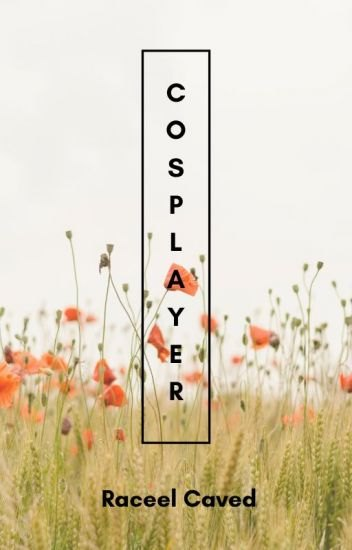
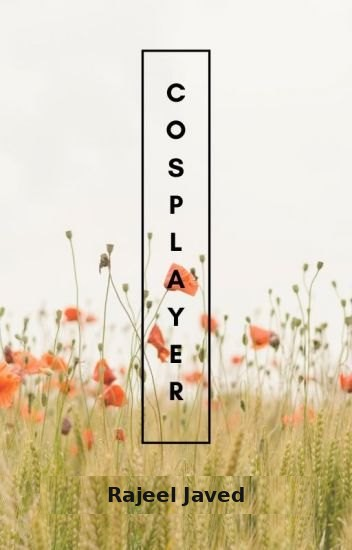
Covers for every piece, Rajeel Javed as the writer, pinned first, showcase at the end, equal overview boxes, new drafts passphrase, Grouvee and Goodreads links, series of books, character search that can't hang
Claude-Session: https://claude.ai/code/session_01ALpQZF3nfd9Yxu7S4bNpjv

Changed region(s): [[0.0938, 0.8655, 0.9062, 0.9582]]

diff --git a/index.html b/index.html
@@ -108,10 +108,14 @@ main{max-width:1240px;margin:0 auto;padding:20px 16px 60px}
 .act .w{font-size:12px;color:var(--ink3);white-space:nowrap}
 
 .dist{display:grid;grid-template-columns:repeat(var(--n),1fr);gap:3px;align-items:end;height:90px}
-#ov_sc .dist{height:190px;gap:6px}
-.ovgrid{display:grid;grid-template-columns:minmax(0,1.75fr) minmax(0,1fr);gap:16px;align-items:start}
-.ovair .unl{max-height:620px;overflow-y:auto;scrollbar-width:thin;padding-right:4px}
-@media (max-width:860px){.ovgrid{grid-template-columns:1fr}}
+#ov_sc .dist{height:170px;gap:4px}
+.ovgrid{display:grid;grid-template-columns:repeat(3,minmax(0,1fr));gap:16px;align-items:stretch}
+.ovgrid>.box{display:flex;flex-direction:column;min-width:0}
+.ovgrid .hbar{grid-template-columns:96px 1fr 30px}
+.ovgrid .box-h{flex-wrap:wrap;row-gap:6px}.ovgrid .box-h h3{white-space:nowrap}.ovgrid .mtabs button{padding:3px 5px}
+.ovair .unl{max-height:300px;overflow-y:auto;scrollbar-width:thin;padding-right:4px}
+@media (max-width:1000px){.ovgrid{grid-template-columns:1fr 1fr}.ovgrid>.ovair{grid-column:1/-1}}
+@media (max-width:640px){.ovgrid{grid-template-columns:1fr}}
 .dist div{background:var(--c);opacity:.85;position:relative;min-height:2px}
 .dist div:hover{opacity:1}
 .distl{display:grid;grid-template-columns:repeat(var(--n),1fr);gap:3px;font-size:10px;color:var(--ink3);text-align:center;margin-top:4px}
@@ -247,6 +251,7 @@ table.lt{width:100%;border-collapse:collapse;background:var(--panel);border:1px 
 .rdend1{text-align:center;color:var(--ink3);margin-top:34px;font-size:20px}
 .rdend1 .rdend{font-size:16px}
 .rdfoot{text-align:center;margin-top:24px}
+.rdbottom{display:flex;justify-content:space-between;gap:10px;margin-top:14px}
 .rdtoc{margin-top:16px}.rdtoc ol{list-style:none}
 .rdtoc li a{display:flex;justify-content:space-between;gap:10px;padding:9px 14px;border-top:1px solid var(--line)}
 .rdtoc li:first-child a{border-top:0}
@@ -926,6 +931,8 @@ function rOverview(){
       <div class="links">
         <a class="chip" href="https://myanimelist.net/profile/SatsugaiDeAtsu" target="_blank" rel="noopener"><b style="width:8px;height:8px;background:var(--anime)"></b>MyAnimeList</a>
         <a class="chip" href="https://letterboxd.com/SatsugaiDeAtsu/" target="_blank" rel="noopener"><b style="width:8px;height:8px;background:var(--film)"></b>Letterboxd</a>
+        <a class="chip" href="https://www.grouvee.com/user/186222-SatsugaiDeAtsu/" target="_blank" rel="noopener"><b style="width:8px;height:8px;background:var(--game)"></b>Grouvee</a>
+        <a class="chip" href="https://www.goodreads.com/user/show/206271423" target="_blank" rel="noopener"><b style="width:8px;height:8px;background:var(--book)"></b>Goodreads</a>
         <a class="chip" href="https://medium.com/@rajeeljaved" target="_blank" rel="noopener"><b style="width:8px;height:8px;background:var(--story)"></b>Medium</a>
       </div>
     </div>
@@ -951,12 +958,12 @@ function rOverview(){
       <div class="actscroll">${acts.map((a,i)=>`<div class="act" data-a="${i}" style="--c:${MED[a.k].c}"><span class="k"></span><div class="athumb">${cover(a.t,a.img||'','','mini')}</div><div class="t"><div>${esc(a.t)}</div><div class="small muted">${esc(MED[a.k].name)} · ${esc(a.w)}</div></div><div class="w">${ago(a.d)}</div></div>`).join('')}</div></div>
     <div class="box" id="ov_time"><div class="box-h"><h2>Time spent</h2><button class="btn" id="pickme">🎲 Pick something for me</button></div><div class="box-b tspent"><div class="muted small">Adding it up…</div></div></div>
   </section>
-  ${showcase()}
   <div id="ov_more"></div>
   ${favRow('Favorite films','films',favF.map(f=>({t:f.t,img:f.img||'',sub:f.y,b:f.r?f.r+'★':'',o:()=>openFilm(f)})))}
   ${favRow('Favorite games','games',favG.map(g=>({t:g.t,img:g.img||'',sub:g.pf[0]||'',b:g.r?g.r+'/5':'',x:gDlcStack(g),line:gDlcLine(g),o:()=>openGame(g)})))}
   ${favRow('Favorite anime','anime',D.hof.malFavs.anime.map(([id,t,sub])=>{const a=anime.find(x=>x.id===id);return {t:a?a.t:t,img:a?a.img:'',sub,b:a&&a.sc?String(a.sc):'',o:()=>a?openAnime(a):window.open('https://myanimelist.net/anime/'+id,'_blank')}}))}
   ${favRow('Favorite manga','manga',D.hof.malFavs.manga.map(([id,t,sub])=>{const m=manga.find(x=>x.id===id);return {t:m?m.t:t,img:m?m.img:'',sub,b:m&&m.sc?String(m.sc):'',o:()=>m?openManga(m):window.open('https://myanimelist.net/manga/'+id,'_blank')}}))}
+  ${showcase()}
   <div class="more"><a class="btn" href="#hof">Open the Hall of Fame →</a> <a class="btn" href="#wrapped">See your Wrapped →</a></div></div>
   `;
 
@@ -1023,7 +1030,7 @@ async function overviewExtra(){
   box.innerHTML=`
   ${cont.length?`<section class="box" style="margin-top:16px"><div class="box-h" style="border-top:3px solid var(--anime)"><h2>Continue the series</h2><span class="small muted">${cont.length} sequels you haven't started · scroll →</span></div><div class="box-b"><div class="hslide">${cont.map(ctile).join('')}</div></div></section>`:''}
   <section class="ovgrid" style="margin-top:16px">
-    <div class="grid" style="align-content:start">${tabsBox('ov_sc','Scores',SI)}${tabsBox('ov_gen','Top genres',GI,'Each title counts once, under its main theme.')}</div>
+    ${tabsBox('ov_sc','Scores',SI)}${tabsBox('ov_gen','Top genres',GI,'Each title counts once, under its main theme.')}
     <div class="box ovair"><div class="box-h"><h3>Airing</h3><span class="small muted">in your time</span></div><div class="box-b unl">${air.length?air.map(({a,n},i)=>`<div class="unx" data-ai="${i}"><div class="ut">${cover(a.t,a.img||'','')}</div><div class="ui"><div class="un">${esc(a.t)}</div><div class="us">${esc(n.when)} · <b>${esc(n.in)}</b>${a.st===6?' · plan to watch':''}</div></div></div>`).join(''):'<div class="muted small">None of the shows you\'re watching are airing right now.</div>'}</div></div>
   </section>`;
   box.querySelectorAll('.mtabs').forEach(t=>t.querySelectorAll('button').forEach(b=>b.onclick=()=>{t.querySelectorAll('button').forEach(x=>x.classList.toggle('on',x===b));const L=t.dataset.g==='ov_gen'?GI:SI;$('#'+t.dataset.g).innerHTML=L[+b.dataset.i].h}));
@@ -1172,7 +1179,9 @@ function gameSeries(g){
 const BSER=t=>{const m=/\(([^()#]+?),?\s*#\s*([\d.]+)\)\s*$/.exec(t||'');return m?{n:m[1].trim(),i:+m[2]}:null};
 function bookSeries(b){
   const me=BSER(b.t);if(!me)return '';
-  const L=books.filter(x=>{const s=BSER(x.t);return s&&s.n===me.n}).sort((a,c)=>BSER(a.t).i-BSER(c.t).i);
+  const sk=n=>norm(n).replace(/^the /,'');
+  const L=books.filter(x=>{const s=BSER(x.t);return s&&sk(s.n)===sk(me.n)}).sort((a,c)=>BSER(a.t).i-BSER(c.t).i);
+  me.n=L.map(x=>BSER(x.t).n).sort((a,c)=>c.length-a.length)[0]||me.n;
   return `<div class="sect" style="--c:var(--book);margin-top:14px"><h2><i></i>${esc(me.n)} <span class="muted mono">book ${me.i}</span></h2>${L.length>1?`<div class="relgrid">${L.map(x=>`<button type="button" class="reltile${x===b?' cur':''}" data-bi="${x.i}" ${x===b?'disabled':''}>${cover(x.t,x.img||'',x.r?`<span class="badge">${x.r}★</span>`:'')}<span class="rl">Book ${BSER(x.t).i}</span><span class="rn">${esc(x.t.replace(/\s*\([^()]*#[^()]*\)\s*$/,''))}</span><span class="rs" style="color:${x===b?'var(--book)':BST[x.st][1]}">${x===b?'You are here':esc(BST[x.st][0])}</span></button>`).join('')}</div>`:`<div class="small muted">The only book from this series in your list.</div>`}</div>`;
 }
 document.addEventListener('click',e=>{const b=e.target.closest('[data-gi],[data-bi]');if(!b||!b.closest('#modal'))return;if(b.dataset.gi!=null){const g=games.find(x=>x.i===+b.dataset.gi);if(g)openGame(g)}else{const x=books.find(x=>x.i===+b.dataset.bi);if(x)openBook(x)}});
@@ -1904,7 +1913,7 @@ function openGame(g){
 /* ---------- writing: stories, articles, other, private drafts ---------- */
 const WSEC=[['stories','Stories'],['wip','Works in progress'],['articles','Articles'],['other','Other']];
 const WST={complete:'Complete',ongoing:'Ongoing',hiatus:'On hiatus'};
-const PEN=()=>SET.penName||'Satsu';
+const PEN=()=>SET.penName||'Rajeel Javed';
 let works=[];
 function rebuildWorks(){works=(D.works||[]).slice()}
 rebuildWorks();
@@ -2092,7 +2101,7 @@ async function rStories(){
       <div class="box box-b drtools" style="margin-top:14px"><div><b>Private drafts</b><div class="small muted">Saved encrypted with your passphrase. Visitors never see this tab, and the saved file can't be read without the passphrase.</div></div><div class="drbtns"><button class="btn" id="dr_cp">Change passphrase</button><button class="btn" id="dr_lock">Lock</button></div><form id="dr_cpf" class="drform" hidden><input id="dr_n1" type="password" placeholder="New passphrase (8+ characters)" autocomplete="new-password"><input id="dr_n2" type="password" placeholder="Type it again" autocomplete="new-password"><button class="btn pri">Save new passphrase</button><div id="dr_cpm" class="small muted"></div></form></div>`
     :`<div class="box box-b drlock"><div class="drico">🔒</div><h3>Private drafts are locked</h3><p class="small muted">They're stored encrypted. Only your passphrase opens them. Visitors never see this tab.</p><form id="dr_f" class="drform"><input id="dr_pw" type="password" placeholder="Passphrase" autocomplete="current-password"><label class="small chkline"><input type="checkbox" id="dr_rem"> Remember on this device</label><button class="btn pri">Unlock</button><div id="dr_err" class="small" style="color:var(--accent)"></div></form></div>`;
   }else{
-    const L=all.filter(w=>w.sec===S.sec).sort((a,b)=>(b.date||'').localeCompare(a.date||''));
+    const L=all.filter(w=>w.sec===S.sec).sort((a,b)=>(a.pin?0:1)-(b.pin?0:1)||(a.pin||0)-(b.pin||0)||(b.date||'').localeCompare(a.date||''));
     body=L.length?`<div class="wlist">${L.map(wcard).join('')}</div>`:'<div class="box box-b muted" style="margin-top:14px">Nothing here yet.</div>';
   }
   $('#app').innerHTML=`${banner('stories','Stories & writing',`Stories, articles and the odd poem, by ${esc(PEN())}.`,[[all.length,'pieces'],[fmt(words),'words'],[chs,'chapters']],'Writing')}
@@ -2135,6 +2144,7 @@ async function rRead(){
     ${multi?`<nav class="rdnav">${n>0?`<a href="#read/${id}/${n}" class="prev"><small>Previous</small>${esc(chName(w,n-1))}</a>`:'<span></span>'}${n<ch.length-1?`<a href="#read/${id}/${n+2}" class="next"><small>Next</small>${esc(chName(w,n+1))}</a>`:`<span class="rdend">${w.st==='complete'?(/the end\W*$/i.test((c.h||'').replace(/<[^>]+>/g,' ').trim())?'':'The end'):'To be continued…'}</span>`}</nav>`:`<div class="rdend1">${w.st==='complete'?'❦':'<span class="rdend">To be continued…</span>'}</div>`}
     ${w.medium?`<div class="rdfoot small muted">Also on <a class="link" href="${esc(w.medium)}" target="_blank" rel="noopener">Medium ↗</a></div>`:''}
   </article>
+  <div class="rdbottom"><a href="#stories" class="rdback">← Writing</a><a href="#" class="rdback" onclick="window.scrollTo({top:0,behavior:'smooth'});return false">Back to top ↑</a></div>
   ${multi?`<div class="box rdtoc"><div class="box-h"><h2>Chapters</h2><span class="small muted">${fmt(w.words||0)} words</span></div><ol>${ch.map((x,i)=>`<li class="${i===n?'on':''}"><a href="#read/${id}/${i+1}"><span>${esc(chName(w,i))}</span><span class="mono small muted">${fmt((w.chw||[])[i]||wcount(x.h))} words</span></a></li>`).join('')}</ol></div>`:''}
   </div>`;
   const setFs=d=>{const v=Math.max(15,Math.min(26,store.get('rd_fs',19)+d));store.set('rd_fs',v);$('#rdp').style.setProperty('--fs',v+'px')};
@@ -2379,7 +2389,14 @@ async function viaApi(kind,q){
     return [...A,...B].sort((p,q)=>q.pop-p.pop).slice(0,20);
   }
   if(kind==='characters'||kind==='people'){
-    const r=await fetch(`https://api.jikan.moe/v4/${kind}?q=${encodeURIComponent(q)}&limit=16&order_by=favorites&sort=desc`).then(r=>r.json());
+    const tfetch=(u,ms)=>{const c=new AbortController();const t=setTimeout(()=>c.abort(),ms);return fetch(u,{signal:c.signal}).finally(()=>clearTimeout(t))};
+    // MyAnimeList's own quick search through your helper first (fast); Jikan as the fallback
+    if(SET.workerUrl){try{const j=await tfetch(`${SET.workerUrl}/people?type=${kind==='people'?'person':'character'}&q=${encodeURIComponent(q)}`,9000).then(r=>r.json());
+      const items=((j.categories||[])[0]||{}).items;
+      if(Array.isArray(items)){SRC[kind]='MyAnimeList';const flip=n=>n&&n.split(', ').length===2?n.split(', ').reverse().join(' '):n;
+        return items.map(c=>{const P=c.payload||{};return {malId:c.id,t:flip(c.name),alt:P.alternative_name||'',y:'',meta:[(P.related_works||[]).slice(0,2).join(', '),P.favorites?fmt(String(P.favorites).replace(/,/g,''))+' favourites':'',P.birthday&&P.birthday!=='Unknown'?'born '+P.birthday:''].filter(Boolean).join(' · '),sum:'',img:(c.image_url||c.thumbnail_url||'').replace(/\/r\/\d+x\d+\//,'/').split('?')[0],url:c.url}})}}catch(e){}}
+    let r;try{r=await tfetch(`https://api.jikan.moe/v4/${kind}?q=${encodeURIComponent(q)}&limit=16&order_by=favorites&sort=desc`,12000).then(r=>r.json())}catch(e){throw new Error('timeout')}
+    SRC[kind]='MyAnimeList (through Jikan)';
     return (r.data||[]).map(c=>({malId:c.mal_id,t:c.name,alt:c.name_kanji||[c.family_name,c.given_name].filter(Boolean).join(' ')||'',y:'',meta:[c.favorites?fmt(c.favorites)+' favourites':'',c.birthday?'born '+fdate(c.birthday.slice(0,10)):''].filter(Boolean).join(' · '),sum:(c.about||'').replace(/\s+/g,' ').slice(0,400),img:c.images&&c.images.jpg&&c.images.jpg.image_url,url:c.url}));
   }
   if(kind==='games'&&SET.workerUrl&&SET.igdb){

diff --git a/worker/saturn-mal.js b/worker/saturn-mal.js
@@ -54,6 +54,15 @@ export default {
         try { d = JSON.parse(await r.text()); } catch (e) { d = []; }
         return json(Array.isArray(d) ? d : [], Array.isArray(d) ? 200 : 502);
       }
+      // character and people search (MyAnimeList's own quick search)
+      if (url.pathname === '/people') {
+        const type = url.searchParams.get('type') === 'person' ? 'person' : 'character';
+        const q = (url.searchParams.get('q') || '').slice(0, 64);
+        const r = await fetch(`https://myanimelist.net/search/prefix.json?type=${type}&keyword=${encodeURIComponent(q)}&v=1`, { headers: { 'User-Agent': 'Mozilla/5.0 (Windows NT 10.0; Win64; x64) AppleWebKit/537.36 (KHTML, like Gecko) Chrome/124.0 Safari/537.36', Accept: 'application/json' } });
+        let d = {};
+        try { d = JSON.parse(await r.text()); } catch (e) { d = {}; }
+        return json(d, d.categories ? 200 : 502);
+      }
       // sign-in: swap the code (or refresh token) for an access token
       if (url.pathname === '/token' && req.method === 'POST') {
         const b = await req.json();
